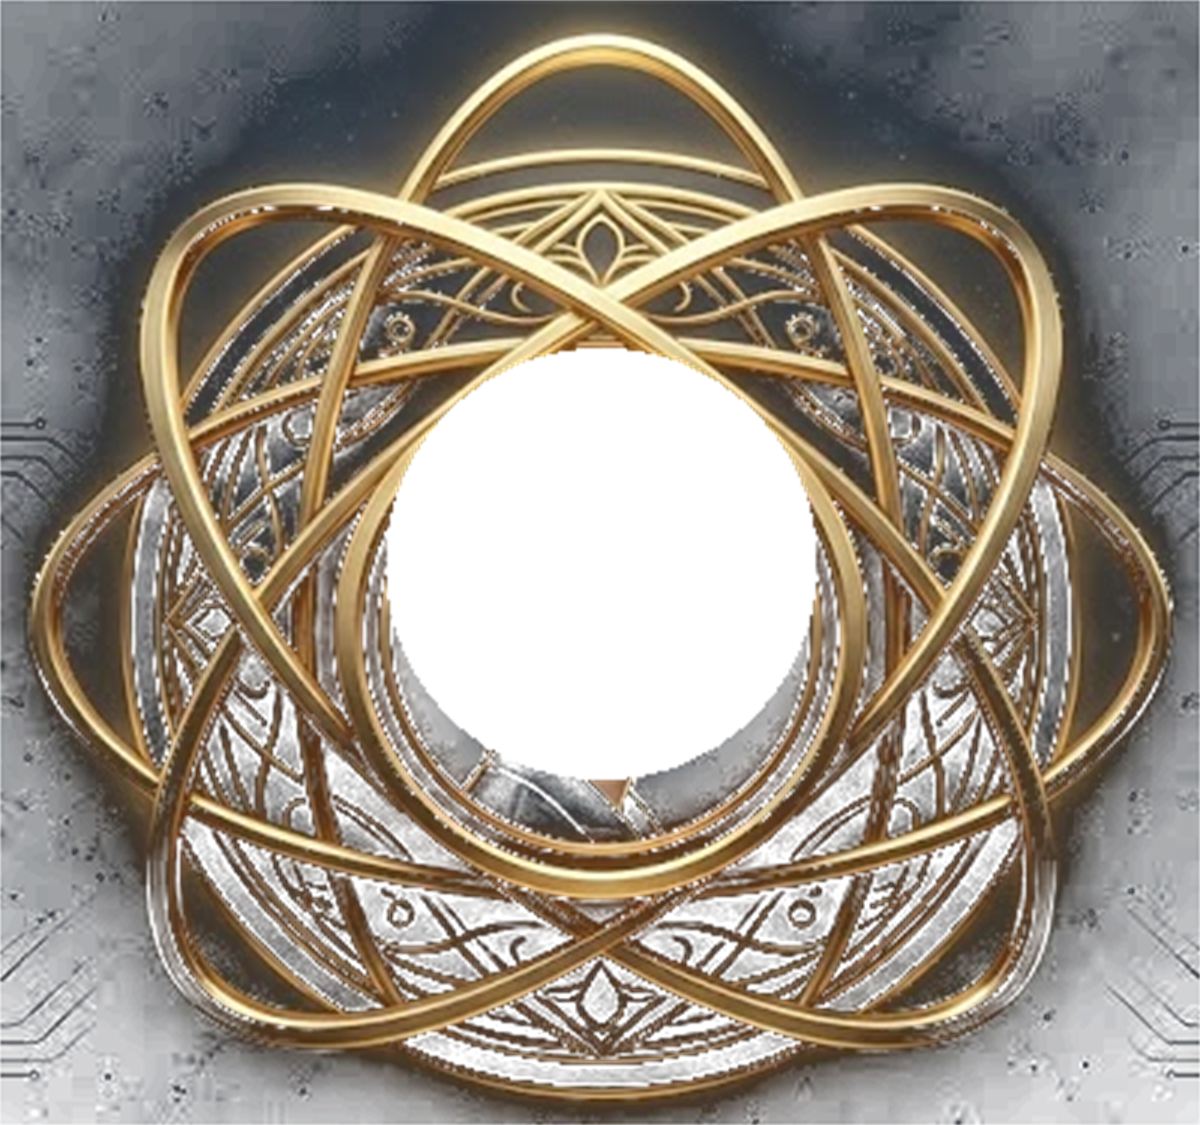
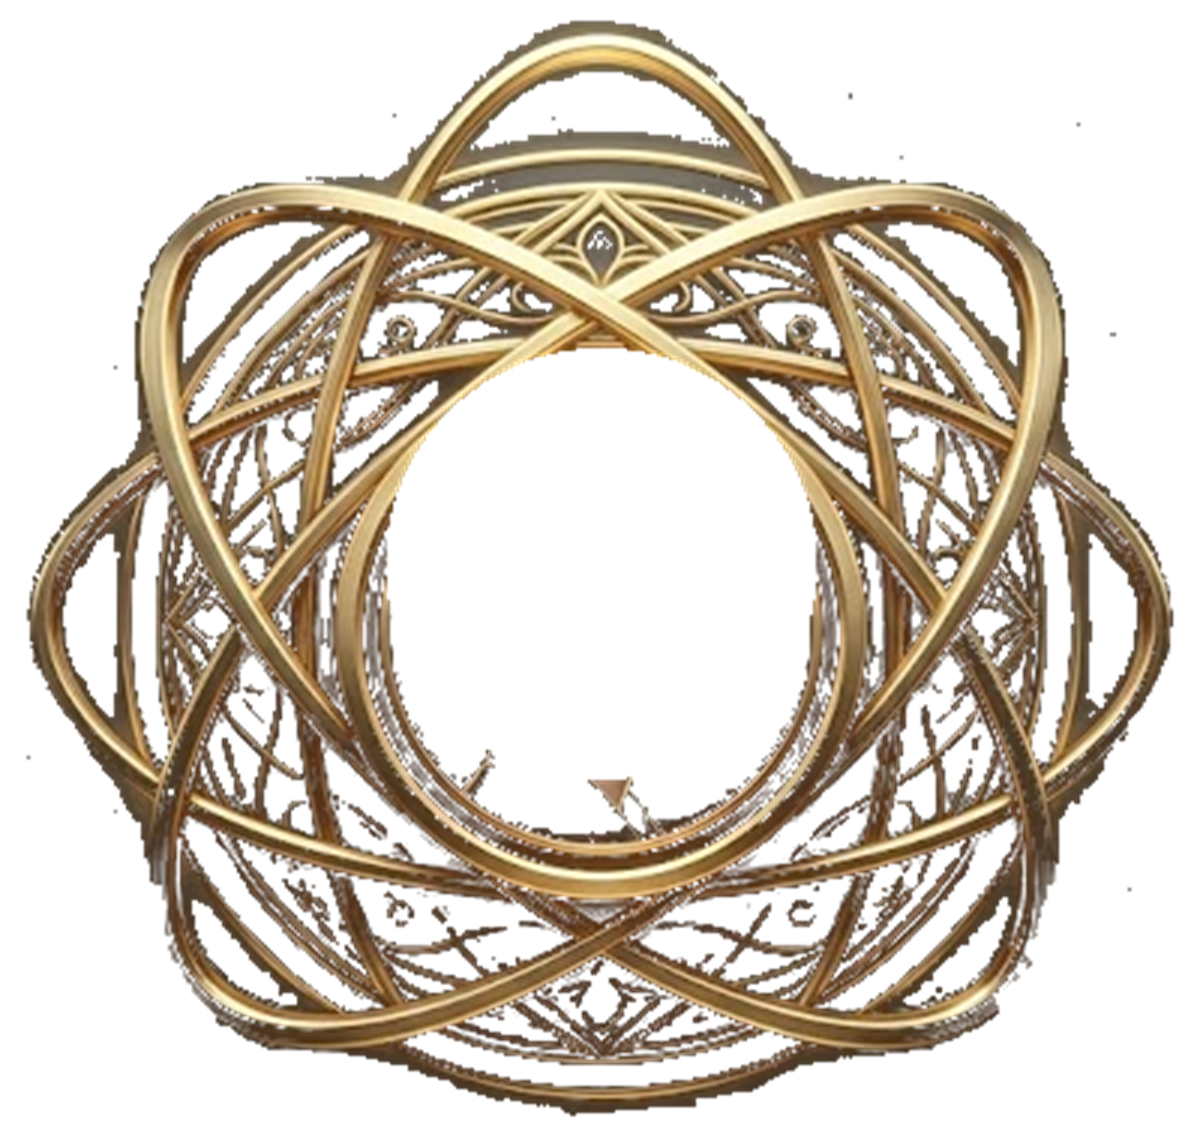
Fix loader emblem transparency (remove dark square background), increase portrait size to 92% and zoom/scale image to fit innermost gold ring

diff --git a/index.html b/index.html
@@ -509,7 +509,7 @@
     }
     .loader-portrait-wrapper {
       position: absolute;
-      width: 78%;
+      width: 92%;
       aspect-ratio: 1;
       border-radius: 50%;
       overflow: hidden;
@@ -523,6 +523,7 @@
       width: 100%; height: 100%;
       object-fit: cover;
       object-position: center 15%;
+      transform: scale(1.12);
       filter: saturate(1.06) contrast(1.04) brightness(1.05);
     }
     .loader-rings-img {
@@ -555,7 +556,7 @@
       transform: translate(-50%, -50%);
       display: flex;
       font-family: var(--display);
-      font-size: 2.8rem;
+      font-size: 3.2rem;
       font-weight: 700;
       letter-spacing: 0.25em;
       text-indent: 0.25em;
@@ -878,9 +879,9 @@
         height: 44.02vh;
       }
       .loader-portrait-wrapper {
-        width: 200px;
-        height: 200px;
-        aspect-ratio: auto;
+        width: 92%;
+        height: auto;
+        aspect-ratio: 1;
       }
       .loader-wordmark,
       .loader-sub,
@@ -916,9 +917,6 @@
     @media (max-width: 600px) {
       .loader-emblem {
         width: 270px; height: 250px;
-      }
-      .loader-portrait-wrapper {
-        width: 140px; height: 140px;
       }
       .loader-flashcard {
         width: 140px;
